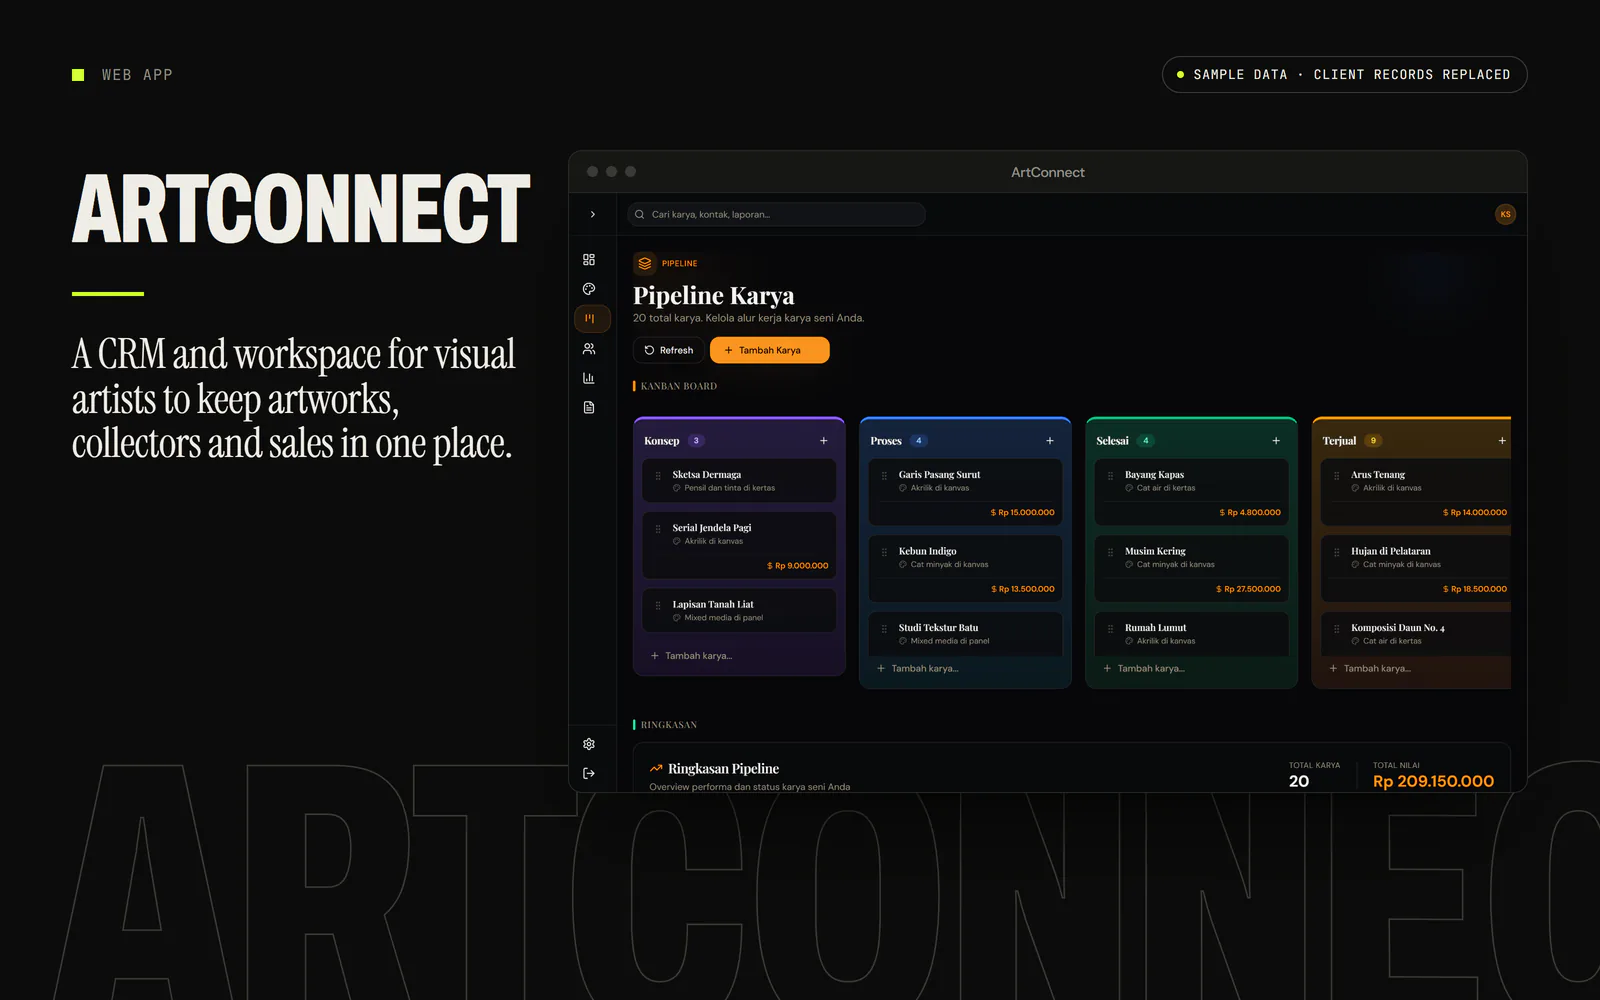
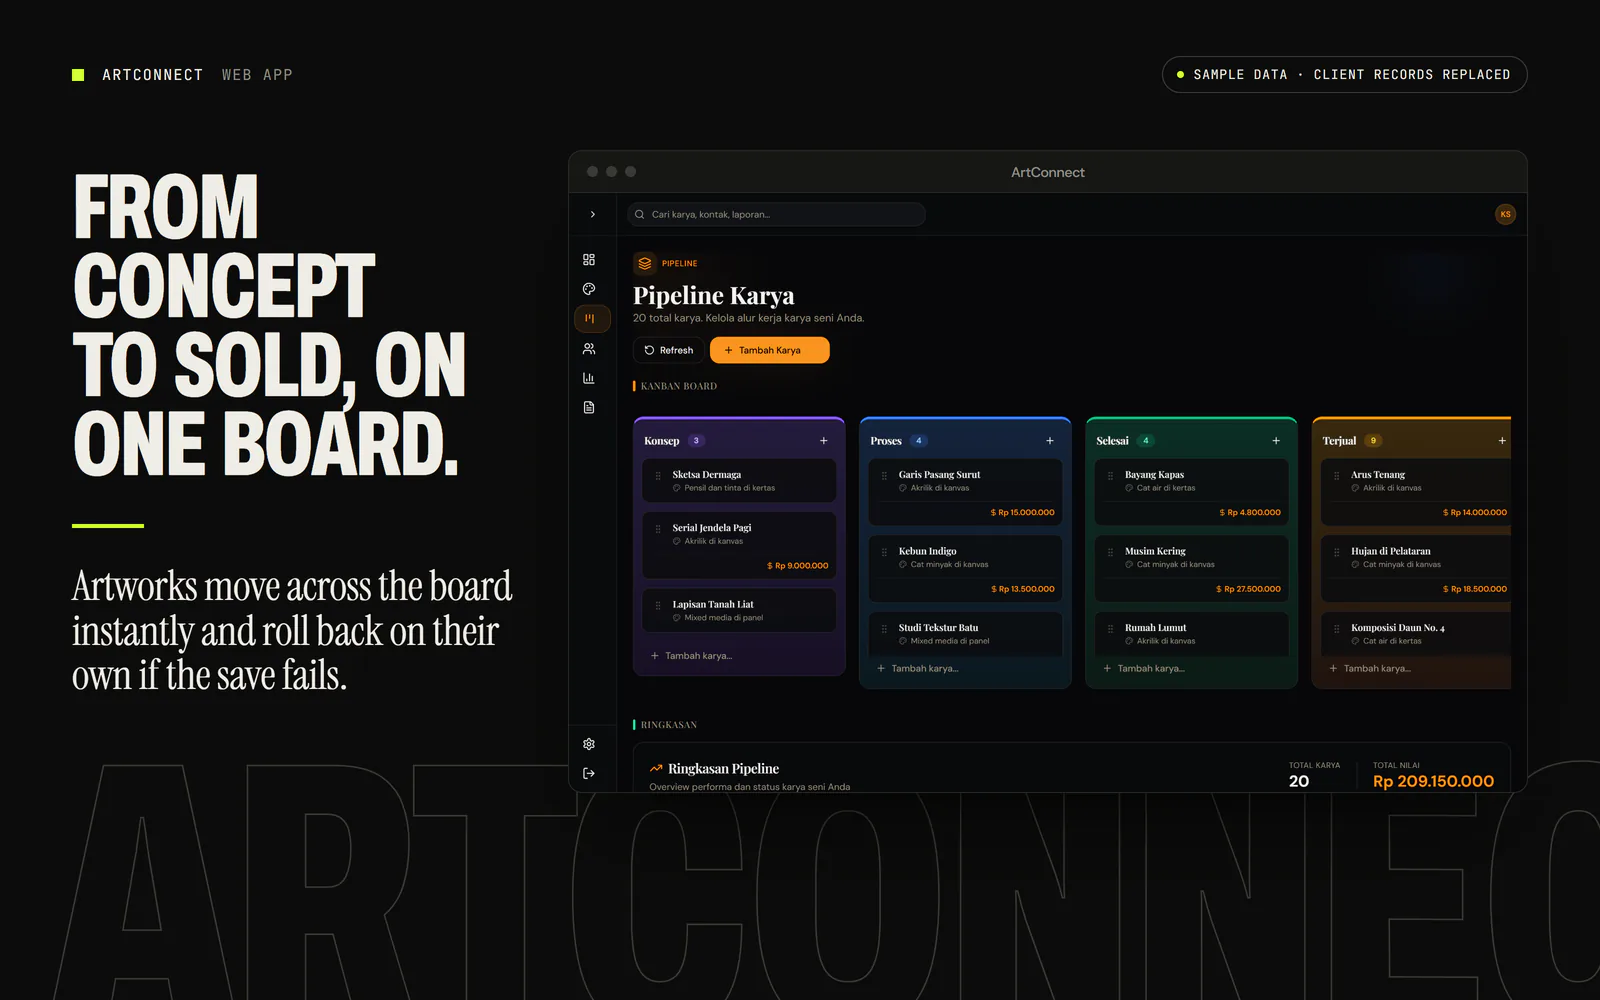
feat(F-010): story-led listing covers instead of a repeated title
The site already sets each project's title and summary beside its cover, so the
cover now leads with a hook (the moment the app changes for its user) and a line
on how it works, with the project name moved into the meta row. Adds a required
listing.hook, recomposes the seven listing covers, and rebuilds the Cartify cover
the same way. Slides are unchanged.

Changed region(s): [[0.0312, 0.155, 0.3438, 0.496], [0.0312, 0.558, 0.3125, 0.713], [0.0625, 0.062, 0.1562, 0.093]]

diff --git a/scripts/listing/templates/cover.html b/scripts/listing/templates/cover.html
@@ -9,13 +9,14 @@
     <div class="ghost ghost-title display" aria-hidden="true">{{title}}</div>
     <header class="meta label">
       <span class="mark"></span>
+      <span class="cover-name">{{title}}</span>
       <span>{{kind}}</span>
       {{{chip}}}
       <span class="spacer"></span>
       {{{sample}}}
     </header>
     <section class="copy">
-      <h1 class="display cover-title" data-fit="60">{{title}}</h1>
+      <h1 class="display cover-title" data-fit="52">{{hook}}</h1>
       <div class="accent-bar"></div>
       <p class="tagline" data-fit="26">{{tagline}}</p>
     </section>

diff --git a/scripts/listing/templates/listing.css b/scripts/listing/templates/listing.css
@@ -218,6 +218,11 @@ body > :not(.ghost) {
 .cover.type-mobile .copy {
   width: 700px;
 }
+/* The site already sets the project name and summary beside every cover, so the cover names the project quietly and
+   spends its headline on the moment the app changes for its user. */
+.cover-name {
+  color: var(--paper);
+}
 .cover-title {
   max-height: 318px;
   font-size: 116px;

diff --git a/docs/specs/F-010-listing-images/design.md b/docs/specs/F-010-listing-images/design.md
@@ -6,7 +6,7 @@ status: verification
 tier: full
 owner: "M Sechan Alfarisi"
 created: 2026-10-17
-last_updated: 2026-10-17
+last_updated: 2026-10-19
 last_verified: 2026-10-17
 requirements: [FR-036, FR-037, FR-038, FR-039]
 supersedes: null
@@ -32,8 +32,8 @@ A small kit in `scripts/listing/*` (new) captures each app on localhost through 
 | `.gitignore` | `.listing-cache/` | raw captures never committed |
 | scripts/listing/capture.mjs (new) | launch Chrome (`CHROME_PATH` or the default path), apply guard and stubs, run the shot list, write PNGs and `hosts.json` | AC-061, AC-062 |
 | scripts/listing/compose.mjs (new) | fill templates, screenshot at device scale 2, convert with sharp, fail when a file exceeds NFR-001 | AC-063 |
-| scripts/listing/templates/ (new) | `cover.html`, `slide-web.html` (browser frame, 4:5), `slide-mobile.html` (phone frame, 9:16); site tokens and fonts; sample-data tag slot; label chip ("Full-stack", "UI slicing") | BR-015 |
-| `scripts/listing/projects/<slug>.mjs` | shot list (path, viewport, actions, wait), allowlist extras, fixtures, captions, label, `sampleData` flag | one file per project |
+| scripts/listing/templates/ (new) | `cover.html`, `slide-web.html` (browser frame, 4:5), `slide-mobile.html` (phone frame, 9:16); site tokens and fonts; sample-data tag slot; label chip ("Full-stack", "UI slicing"); the cover headline is a `hook` (the user's moment) with a how-it-works line, and the project name sits in the meta row, because the site shows the title and summary beside every cover | BR-015 |
+| `scripts/listing/projects/<slug>.mjs` | shot list (path, viewport, actions, wait), allowlist extras, fixtures, captions, hook, label, `sampleData` flag | one file per project |
 | `src/content/listings.ts` | per slug: cover and slides as static imports, caption per slide, label, `sampleData` | site data |
 | `src/content/listings.test.ts` | captions obey copy rules; 4 or 5 slides; every set with `sampleData` renders the notice; slugs exist in `projects` | BR-016 |
 | `src/content/media.ts` | cover from `listings` for each slug that has a set | poster fallback stays |

diff --git a/docs/context/PROJECT_STATE.md b/docs/context/PROJECT_STATE.md
@@ -1,10 +1,10 @@
 <!-- GENERATED FILE — DO NOT EDIT. Rendered by `npm run context:render`.
 Source: sdd.config.json, docs/steering/, docs/specs/F-*/, docs/context/ASSUMPTIONS.md, docs/handoff/current.md.
-source_hash: 532b09a269805c4ad2db00d31352c5223a50009a9f3302899b47cbe94c29e8f1 -->
+source_hash: da01058ff3f3b2fad803b9c0590701db34f06aeb7a15cae8afac4459885de2a4 -->
 
 # Project State
 
-- Generated at: 2026-10-19T05:03:52.992Z
+- Generated at: 2026-10-19T05:22:40.426Z
 - Project: Sechan Portfolio (tier `lite`)
 - Active: F-001 / T-005
 - Open assumptions: 1
@@ -30,14 +30,14 @@ source_hash: 532b09a269805c4ad2db00d31352c5223a50009a9f3302899b47cbe94c29e8f1 --
 ## Git
 
 - Branch: `fix/more-work-gallery-copy`
-- HEAD: `25d08a5`
+- HEAD: `f66e72c`
 - Worktree: dirty
 
 Recent commits:
 
+- `f66e72c docs(F-010): point the handoff at an F-010 task`
 - `25d08a5 fix(F-010): show panel covers on desktop, hold tapped row, Cartify cover, manifesto copy`
 - `78d8812 Merge pull request #11 from VXerys/feat/F-011-experience-highlights`
 - `c4fbf26 Merge main (F-010) into F-011 and resolve conflicts`
 - `8b24980 Merge pull request #12 from VXerys/feat/F-010-listing-images`
-- `207a3e2 fix(F-010): address the final review of the listing gallery`
 <!-- GENERATED:GIT_FACTS:END -->

diff --git a/scripts/listing/README.md b/scripts/listing/README.md
@@ -34,7 +34,7 @@ const project = {
     type: "web",                            // "web" (4 slides) | "mobile" (4 or 5 slides)
     label: null,                            // "Full-stack" | "UI slicing" | null
     sampleData: true,                       // adds the tag "Sample data · client records replaced"
-    title: "Project title", tagline: "One line",
+    title: "Project title", hook: "The moment it changes for the user", tagline: "One line on how",
     cover: { shot: "dashboard" },
     slides: [{ shot: "dashboard", caption: "One-line benefit" }], // caption doubles as alt text (BR-016)
     sources: {},                            // shot name -> absolute path of an existing screenshot (mobile), or { file, cover }

diff --git a/docs/context/PROGRESS.md b/docs/context/PROGRESS.md
@@ -1,6 +1,6 @@
 <!-- GENERATED FILE — DO NOT EDIT. Rendered by `npm run context:render`.
 Source: sdd.config.json, docs/steering/, docs/specs/F-*/, docs/context/ASSUMPTIONS.md, docs/handoff/current.md.
-source_hash: 532b09a269805c4ad2db00d31352c5223a50009a9f3302899b47cbe94c29e8f1 -->
+source_hash: da01058ff3f3b2fad803b9c0590701db34f06aeb7a15cae8afac4459885de2a4 -->
 
 # Project Progress
 

diff --git a/docs/context/BRIEF.md b/docs/context/BRIEF.md
@@ -1,6 +1,6 @@
 <!-- GENERATED FILE — DO NOT EDIT. Rendered by `npm run context:render`.
 Source: sdd.config.json, docs/steering/, docs/specs/F-*/, docs/context/ASSUMPTIONS.md, docs/handoff/current.md.
-source_hash: 532b09a269805c4ad2db00d31352c5223a50009a9f3302899b47cbe94c29e8f1 -->
+source_hash: da01058ff3f3b2fad803b9c0590701db34f06aeb7a15cae8afac4459885de2a4 -->
 
 # Brief
 
